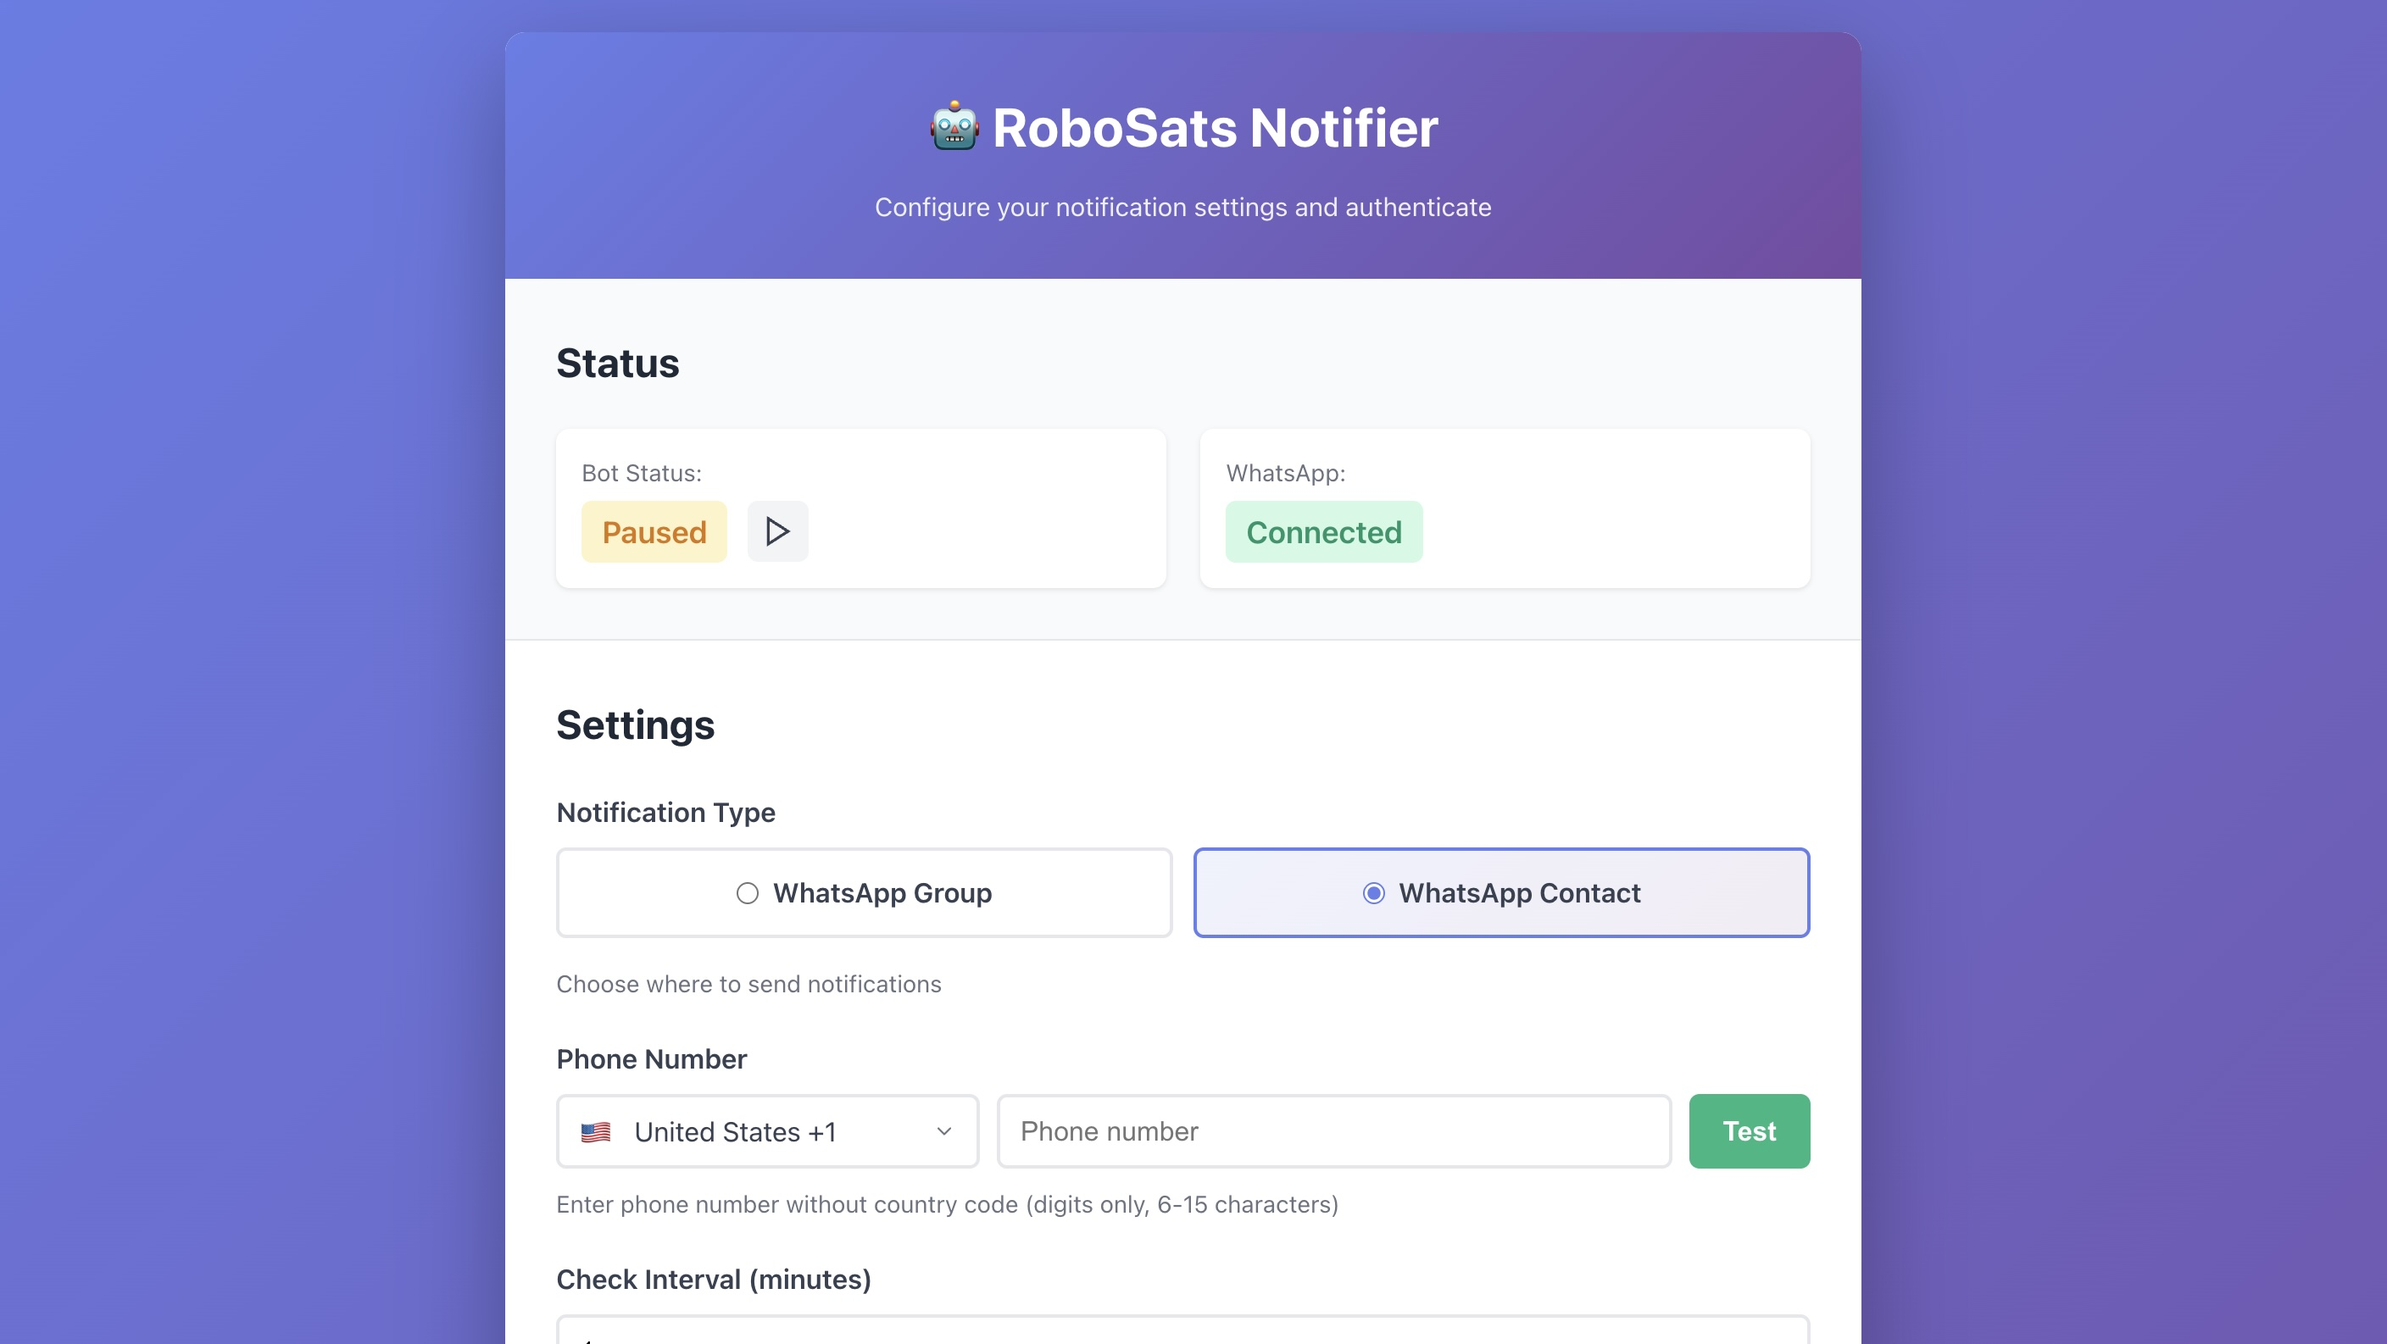
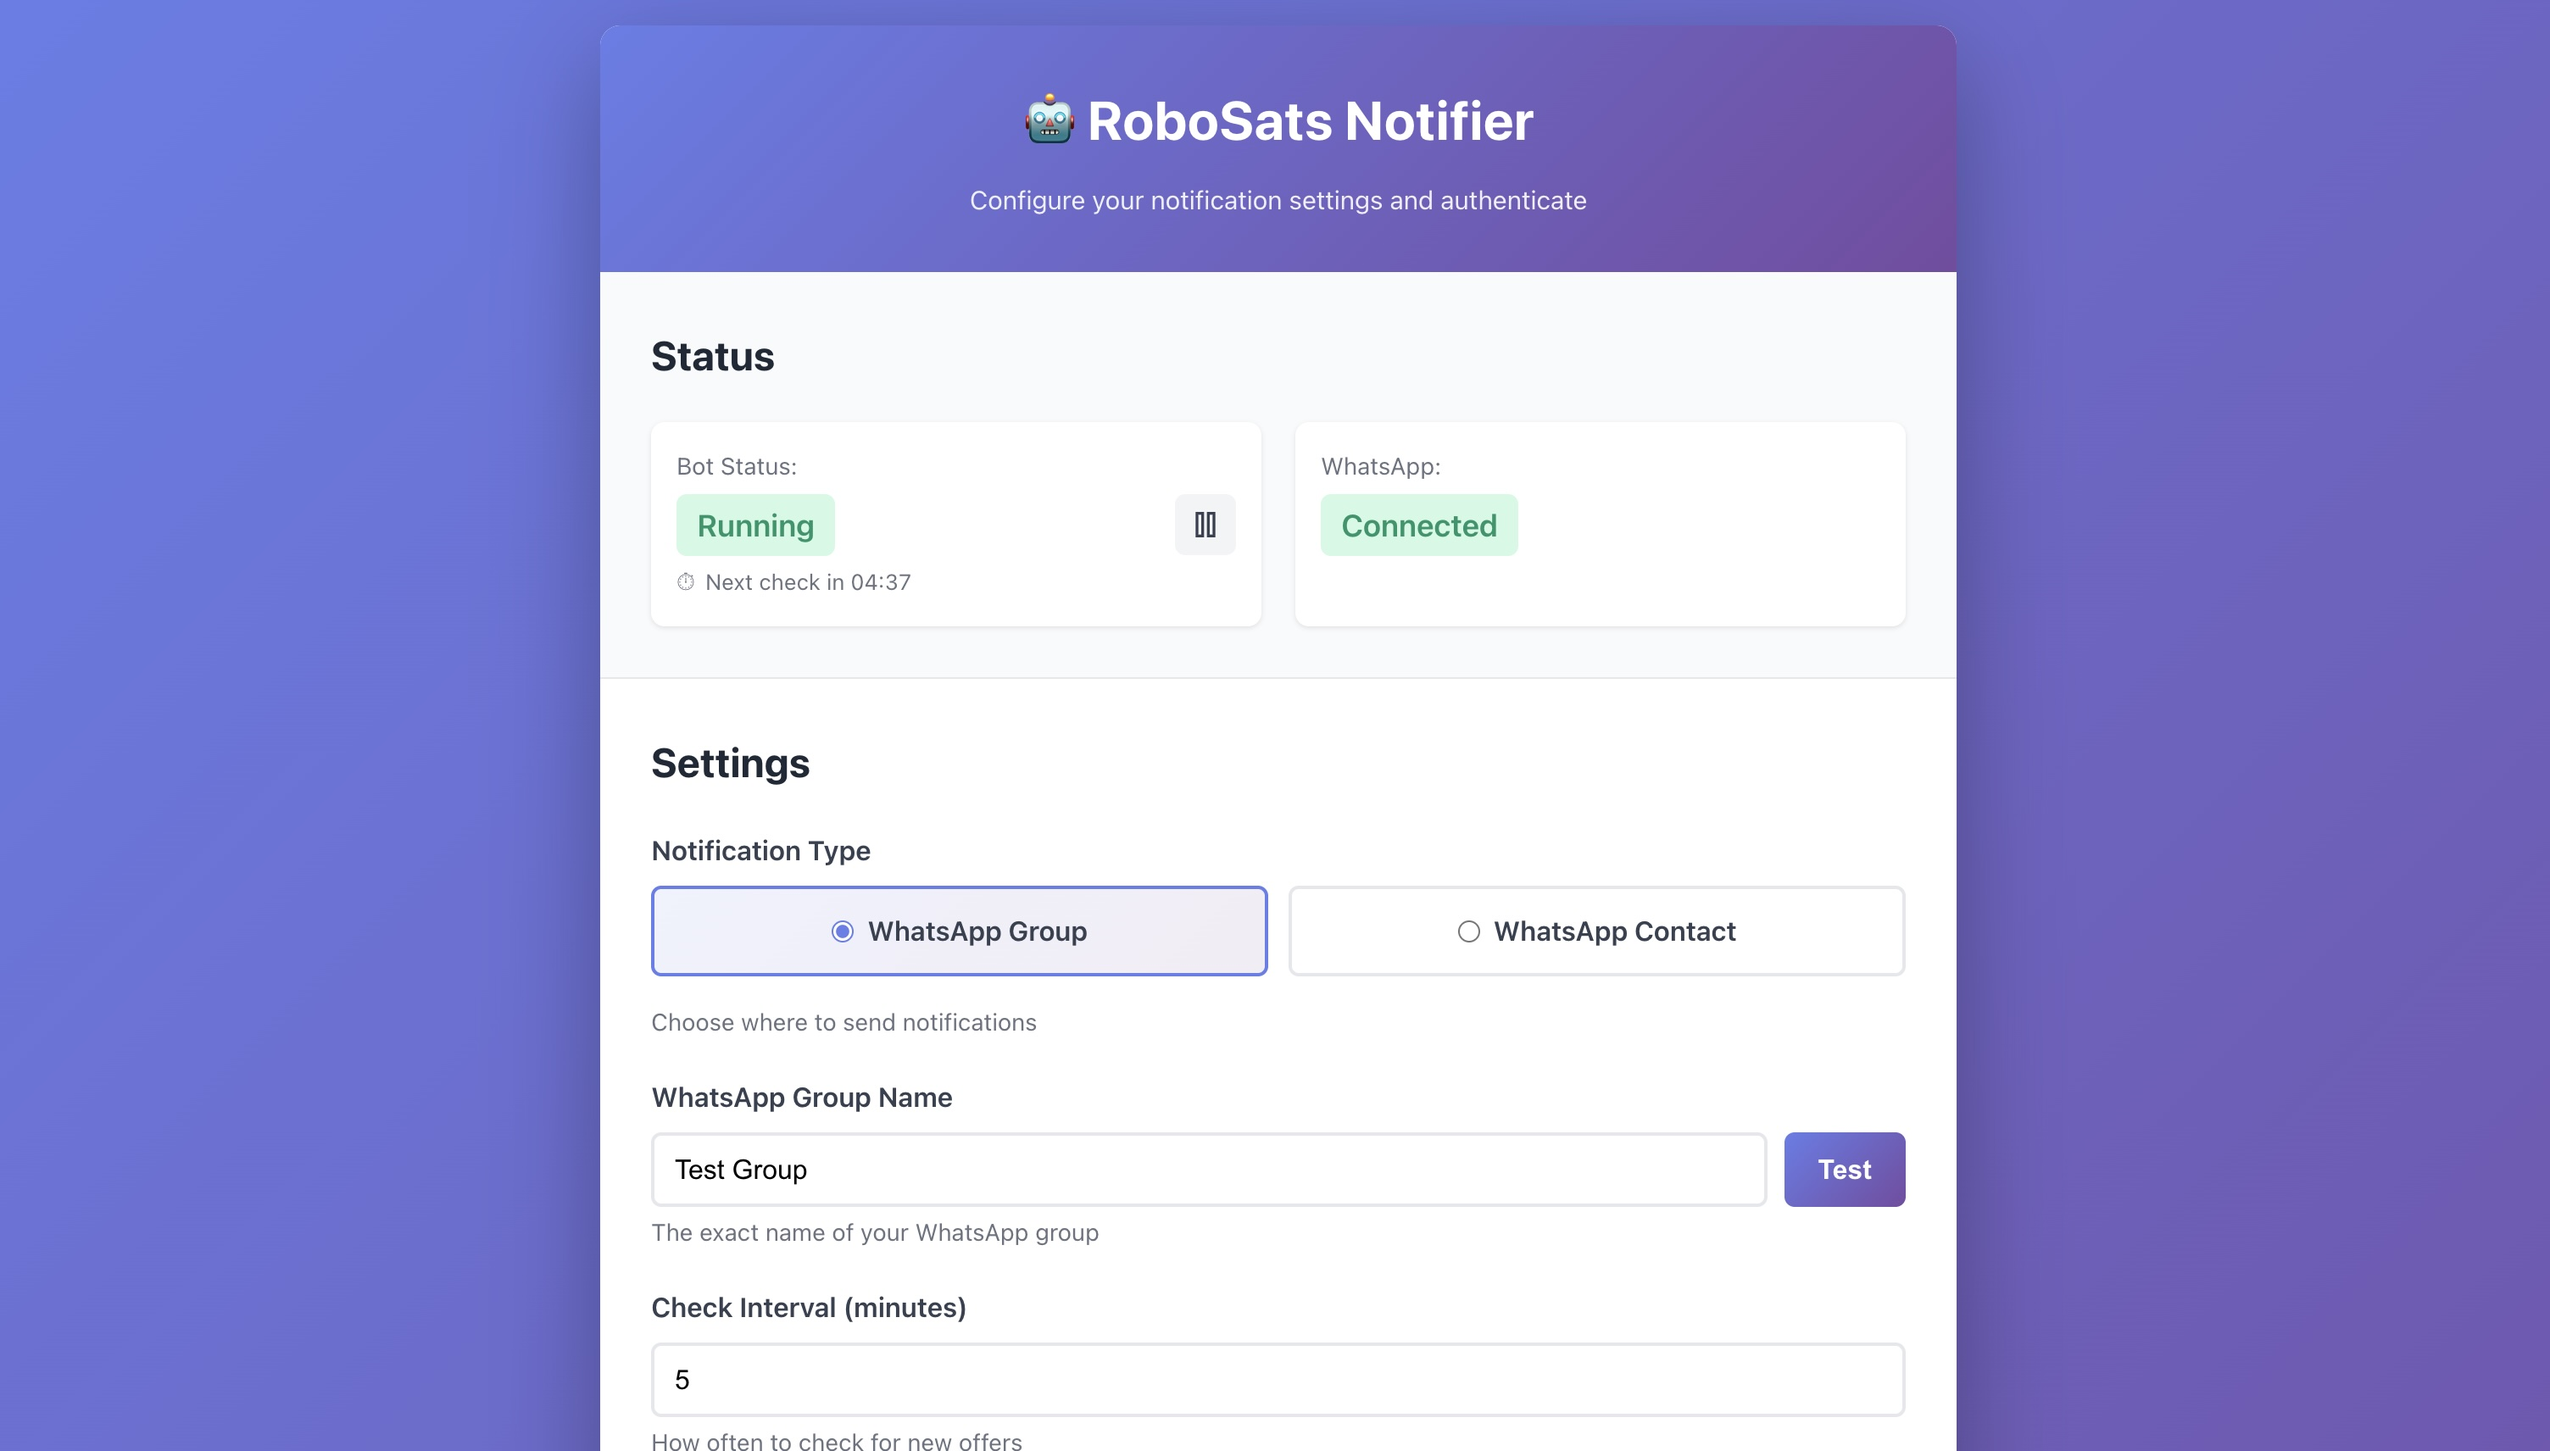
✨ Improve UI state management during form submission. Added a helper function to restore button state and countdown display on validation errors. Updated logic to handle bot state changes and countdown estimation more effectively.

diff --git a/src/web/public/index.html b/src/web/public/index.html
@@ -1038,6 +1038,16 @@
             const originalText = submitBtn.textContent;
             const nextCheckTimeEl = document.getElementById('next-check-time');
             
+            // Helper to restore UI state on failure/validation error
+            function restoreUIState() {
+                submitBtn.disabled = false;
+                submitBtn.textContent = originalText;
+                // Restore countdown display if bot is enabled
+                if (botEnabled && nextCheckTimestamp) {
+                    renderCountdown();
+                }
+            }
+            
             // Show loading state
             submitBtn.disabled = true;
             submitBtn.textContent = 'Saving...';
@@ -1056,11 +1066,13 @@
                 
                 if (!countryCode) {
                     showMessage('Please select a country code', 'error', 10000);
+                    restoreUIState();
                     return;
                 }
                 
                 if (!phoneNumber) {
                     showMessage('Please enter a phone number', 'error', 10000);
+                    restoreUIState();
                     return;
                 }
                 
@@ -1068,6 +1080,7 @@
                 const cleanPhone = phoneNumber.replace(/\D/g, '');
                 if (cleanPhone.length < 6 || cleanPhone.length > 15) {
                     showMessage('Phone number must be 6-15 digits', 'error', 10000);
+                    restoreUIState();
                     return;
                 }
                 
@@ -1077,6 +1090,7 @@
                 // Validate group settings
                 if (!settings.WHATSAPP_GROUP_NAME?.trim()) {
                     showMessage('Please enter a WhatsApp group name', 'error', 10000);
+                    restoreUIState();
                     return;
                 }
             }
@@ -1098,6 +1112,8 @@
             const currentConfig = await fetch('/api/settings').then(r => r.json());
             settings.BOT_ENABLED = currentConfig.BOT_ENABLED || 'true';
             
+            let saveSucceeded = false;
+            
             try {
                 const response = await fetch('/api/settings', {
                     method: 'POST',
@@ -1110,6 +1126,7 @@
                 const result = await response.json();
                 
                 if (response.ok) {
+                    saveSucceeded = true;
                     showMessage(result.message, 'success', 5000);
                     
                     // Fetch updated status to get new nextCheckTime after config change
@@ -1159,6 +1176,11 @@
                 // Restore button state
                 submitBtn.disabled = false;
                 submitBtn.textContent = originalText;
+                
+                // Restore countdown if save failed and bot is running
+                if (!saveSucceeded && botEnabled && nextCheckTimestamp) {
+                    renderCountdown();
+                }
             }
         });
 
@@ -1275,15 +1297,14 @@
             
             try {
                 const newState = !botEnabled;
-                const settings = await fetch('/api/settings').then(r => r.json());
-                settings.BOT_ENABLED = newState ? 'true' : 'false';
                 
+                // Only send BOT_ENABLED to avoid overwriting unsaved form changes
                 const response = await fetch('/api/settings', {
                     method: 'POST',
                     headers: {
                         'Content-Type': 'application/json'
                     },
-                    body: JSON.stringify(settings)
+                    body: JSON.stringify({ BOT_ENABLED: newState ? 'true' : 'false' })
                 });
                 
                 if (response.ok) {
@@ -1291,16 +1312,20 @@
                     
                     // Start/stop countdown timer based on new state
                     if (newState) {
-                        // Bot resumed - wait a moment for backend to set nextCheckTime, then fetch
-                        await new Promise(resolve => setTimeout(resolve, 200));
-                        const statusResponse = await fetch('/api/status');
-                        const status = await statusResponse.json();
-                        if (status.nextCheckTime) {
-                            startCountdownTimer(status.nextCheckTime);
-                        } else {
-                            // Fallback: start without timestamp, will sync shortly
-                            startCountdownTimer();
-                        }
+                        // Bot resumed - show estimated countdown immediately
+                        // Use check interval from form to estimate next check time
+                        const checkIntervalMinutes = parseInt(document.getElementById('check-interval').value) || 5;
+                        const estimatedNextCheck = Date.now() + (checkIntervalMinutes * 60 * 1000);
+                        startCountdownTimer(estimatedNextCheck);
+                        
+                        // Sync with actual backend time after a short delay
+                        setTimeout(async () => {
+                            const statusResponse = await fetch('/api/status');
+                            const status = await statusResponse.json();
+                            if (status.nextCheckTime) {
+                                nextCheckTimestamp = status.nextCheckTime;
+                            }
+                        }, 2000);
                     } else {
                         // Bot paused - stop countdown timer
                         stopCountdownTimer();
